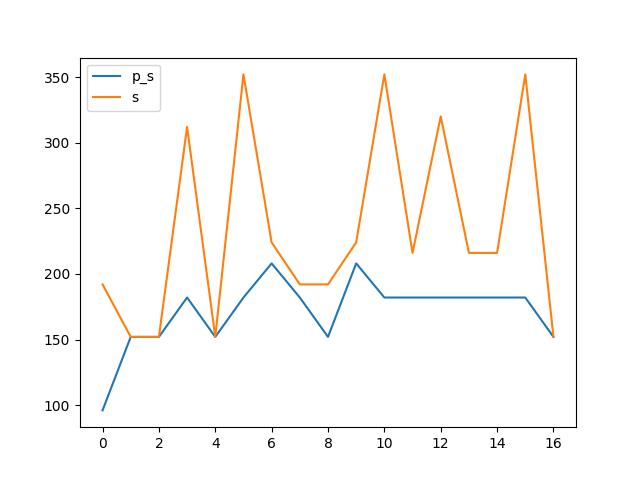
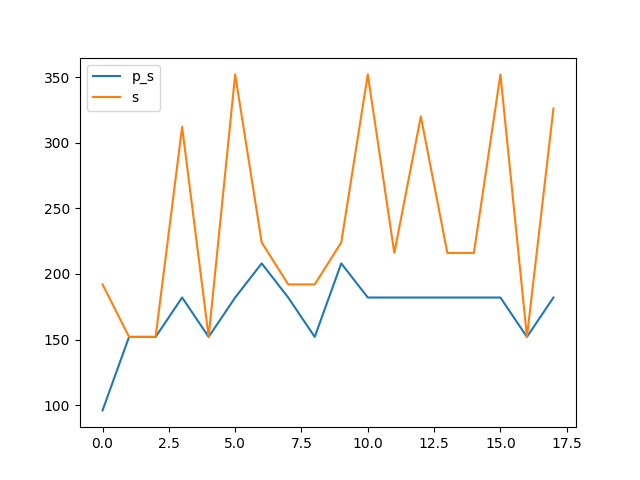
0x0011

diff --git a/benchmark.md b/benchmark.md
@@ -34,9 +34,11 @@ Synthesising 0x000F pexact:182 r=4 exact:352 r=4
 
 Synthesising 0x0010 pexact:152 r=3 exact:152 r=3
 
+Synthesising 0x0011 pexact:182 r=4 exact:326 r=4
+
 ![image1](benchmark_r.png?)
 
 ![image2](benchmark_s.png?)
 
- avg_p_s=171.18 avg_s=233.41 avg_pr=3.71 avg_r=3.35
+ avg_p_s=171.78 avg_s=238.56 avg_pr=3.72 avg_r=3.39
 
